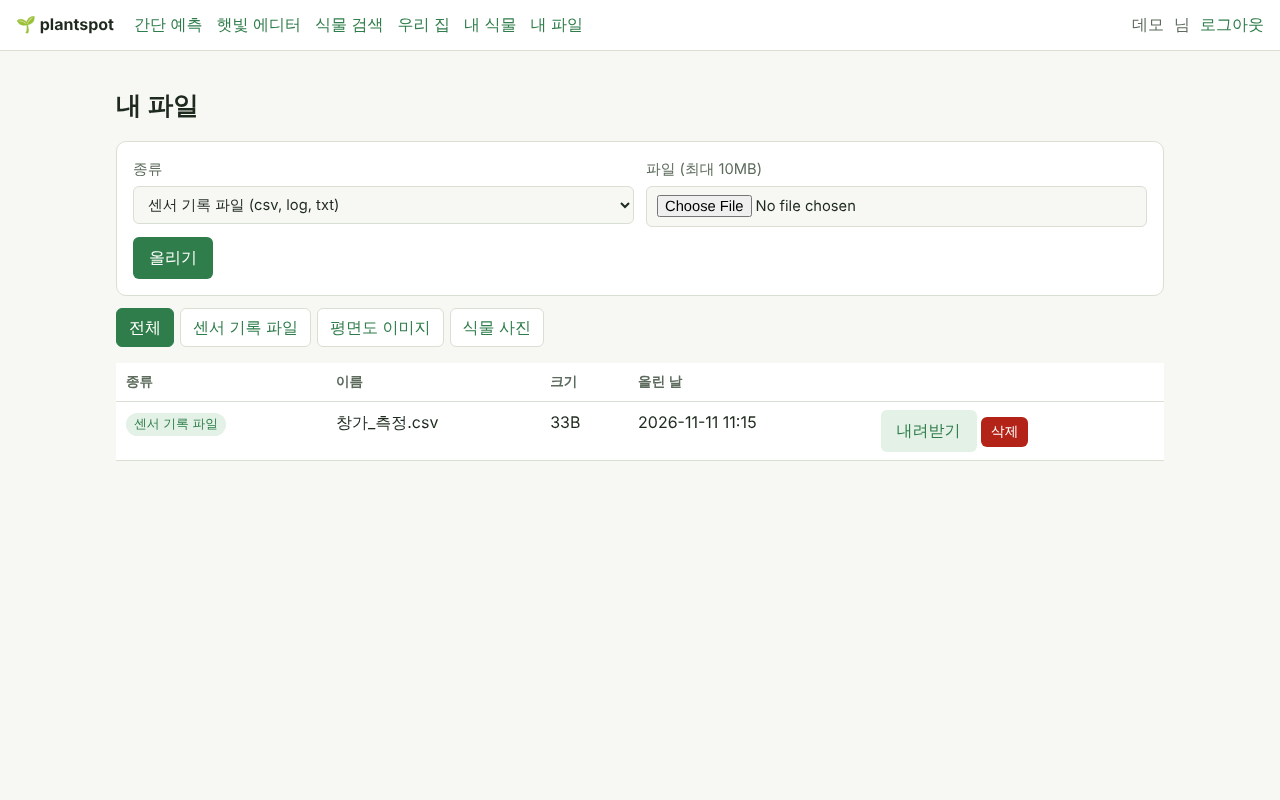
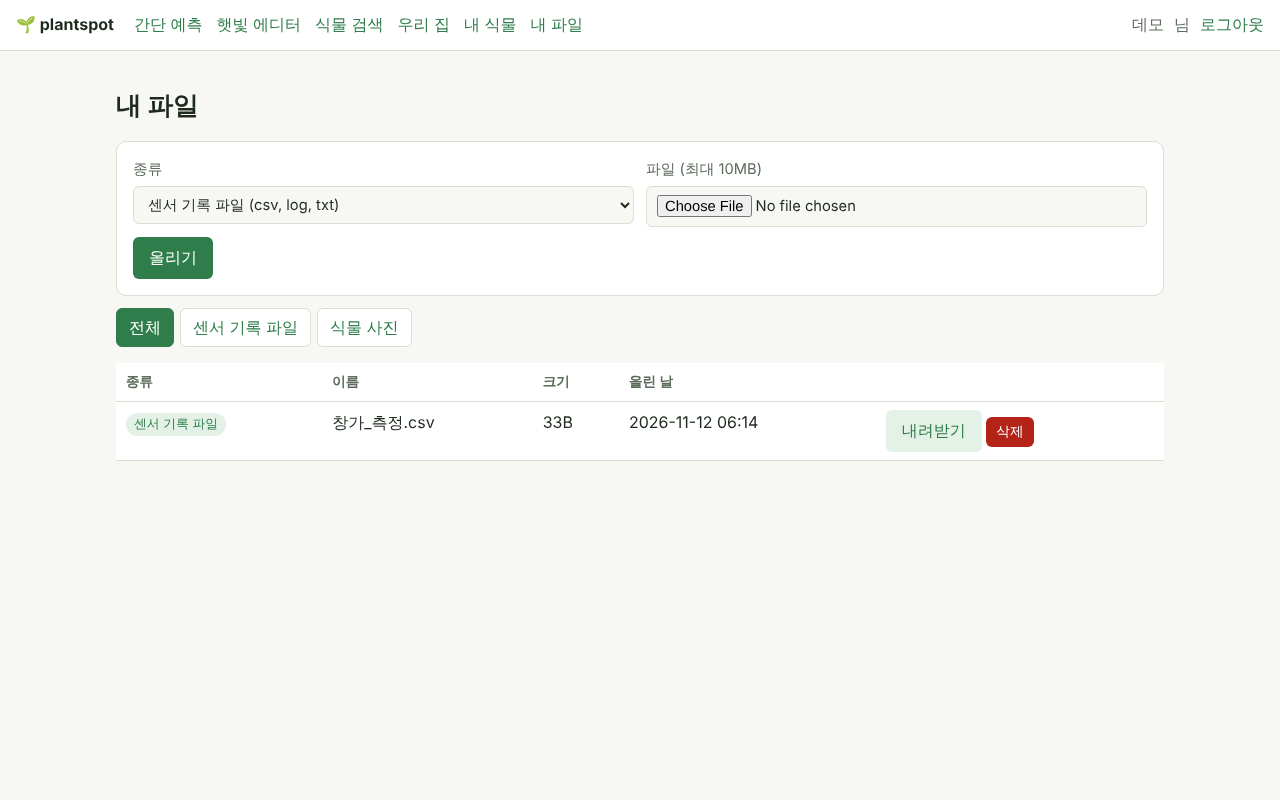
평면도 이미지 업로드 기능 제거 (평면도는 일반적으로 구하기 어려움)
- 방 화면 '평면도 이미지' 올리기·표시, 방과 연결(room.floor_plan_file_id), 파일 종류 선택에서 제거
- 예전에 올린 FLOOR_PLAN 파일은 목록·내려받기·삭제가 되도록 종류 이름만 '평면도 이미지(예전 자료)'로 남기고 새로 올리기는 400
- 파일 업로드 필수 기능은 센서 기록 파일·식물 사진으로 유지
- ② 평면도 햇빛 에디터와 방 모양 그림은 그대로
- README·코드 설명서·CLAUDE.md 문구 정리, README 캡처 다시 찍음 (방 화면에 창별 스카이라인·안쪽 창 설명 추가)

Claude-Session: https://claude.ai/code/session_0116ezH6zdCcCczdPGsCjxg5

diff --git a/src/main/resources/templates/my/room.html b/src/main/resources/templates/my/room.html
@@ -75,16 +75,6 @@
 			<button type="button" id="inner-clear" class="secondary">안쪽 창 지우기</button>
 		</form>
 
-		<h2>평면도 이미지</h2>
-		<div class="card">
-			<p class="muted">집 평면도 사진이나 그림을 올려 두면 평면도 에디터에서 밑그림으로 쓸 수 있습니다.</p>
-			<img id="floor-plan" alt="평면도 이미지" style="max-width:100%;display:none;margin-bottom:12px">
-			<form id="plan-form" class="inline">
-				<input type="file" name="file" accept="image/png,image/jpeg,image/webp,image/gif" required>
-				<button type="submit" class="small">올리기</button>
-			</form>
-		</div>
-
 		<h2>방 정보 수정</h2>
 		<form id="room-form" class="card form">
 			<div class="row">
@@ -271,8 +261,6 @@
 					: '<tr><td colspan="6" class="muted">창문이 없습니다.</td></tr>';
 				drawSkies(room, obs, paths);
 				draw(room);
-				const img = document.getElementById('floor-plan');
-				if (room.floorPlanFileId) { img.src = `/api/files/${room.floorPlanFileId}/content?inline=true`; img.style.display = 'block'; }
 			}
 			load().catch(show);
 
@@ -303,15 +291,6 @@
 					msg.hidden = true;
 					await load();
 				} catch (e) { show(e); }
-			});
-
-			document.getElementById('plan-form').addEventListener('submit', async (ev) => {
-				ev.preventDefault();
-				const fd = new FormData(ev.target);
-				fd.append('category', 'FLOOR_PLAN');
-				fd.append('roomId', id);
-				try { await api('/api/files', { method: 'POST', body: fd }); ev.target.reset(); await load(); }
-				catch (e) { show(e); }
 			});
 
 			rf.addEventListener('submit', async (ev) => {

diff --git a/src/test/java/com/springboot/controller/FileApiTest.java b/src/test/java/com/springboot/controller/FileApiTest.java
@@ -135,7 +135,7 @@ class FileApiTest {
 	}
 
 	@Test
-	void 평면도를_방에_올리면_방에_연결된다() throws Exception {
+	void 방에_연결해_올리기와_평면도_이미지_막기() throws Exception {
 		TestBuildings.insertHadan(jdbc);
 		String house = mvc.perform(post("/api/houses").contentType(MediaType.APPLICATION_JSON)
 				.content("{\"dong\":\"하단동\",\"jibun\":\"1160-6\",\"name\":\"집\",\"floor\":1}").with(csrf()).with(user(owner)))
@@ -145,15 +145,19 @@ class FileApiTest {
 				.with(csrf()).with(user(owner))).andReturn().getResponse().getHeader("Location");
 		String roomId = room.substring(room.lastIndexOf('/') + 1);
 
-		MockMultipartFile png = new MockMultipartFile("file", "plan.png", "image/png", new byte[] { 1, 2, 3 });
-		String fileId = mvc.perform(multipart("/api/files").file(png).param("category", "FLOOR_PLAN")
-				.param("roomId", roomId).with(csrf()).with(user(owner)))
-				.andExpect(status().isCreated()).andReturn().getResponse().getHeader("Location").replace("/api/files/", "");
-		mvc.perform(get(room).with(user(owner))).andExpect(jsonPath("$.floorPlanFileId").value(Long.parseLong(fileId)));
+		MockMultipartFile png = new MockMultipartFile("file", "plant.png", "image/png", new byte[] { 1, 2, 3 });
+		mvc.perform(multipart("/api/files").file(png).param("category", "PLANT_PHOTO").param("roomId", roomId)
+				.with(csrf()).with(user(owner))).andExpect(status().isCreated());
 
 		// 남의 방에는 못 올린다
-		mvc.perform(multipart("/api/files").file(png).param("category", "FLOOR_PLAN").param("roomId", roomId)
+		mvc.perform(multipart("/api/files").file(png).param("category", "PLANT_PHOTO").param("roomId", roomId)
 				.with(csrf()).with(user(other))).andExpect(status().isForbidden());
+
+		// 평면도 이미지는 기능을 뺐다 → 새로 올릴 수 없다
+		mvc.perform(multipart("/api/files").file(png).param("category", "FLOOR_PLAN").param("roomId", roomId)
+				.with(csrf()).with(user(owner)))
+				.andExpect(status().isBadRequest())
+				.andExpect(jsonPath("$.message", org.hamcrest.Matchers.containsString("더 이상 올릴 수 없습니다")));
 	}
 
 	@Test

diff --git a/src/main/java/com/springboot/domain/Room.java b/src/main/java/com/springboot/domain/Room.java
@@ -59,7 +59,6 @@ public class Room {
 	@Column(name = "winter_min_temp")
 	private Double winterMinTemp;
 
-	/** 평면도 이미지(업로드 파일) 번호, 없으면 null */
 	/**
 	 * 안쪽 창 선 (발코니 + 거실처럼 창이 두 겹인 방): 벽 inner_glass_wall 에서 방 안쪽으로 inner_glass_distance(cm)에
 	 * 유리 한 겹이 더 있다. 그 선보다 안쪽 칸은 하늘빛에 inner_glass_transmittance 를 한 번 더 곱한다. 없으면 null.
@@ -72,9 +71,6 @@ public class Room {
 
 	@Column(name = "inner_glass_transmittance")
 	private Double innerGlassTransmittance;
-
-	@Column(name = "floor_plan_file_id")
-	private Long floorPlanFileId;
 
 	@OneToMany(mappedBy = "room", cascade = CascadeType.ALL, orphanRemoval = true)
 	@OrderBy("id")
@@ -134,10 +130,6 @@ public class Room {
 		return winterMinTemp;
 	}
 
-	public void attachFloorPlan(Long fileId) {
-		this.floorPlanFileId = fileId;
-	}
-
 	public List<Point> points() {
 		return Shape.decode(shape);
 	}
@@ -164,10 +156,6 @@ public class Room {
 
 	public CurtainType getCurtain() {
 		return curtain;
-	}
-
-	public Long getFloorPlanFileId() {
-		return floorPlanFileId;
 	}
 
 	public List<RoomWindow> getWindows() {

diff --git a/src/main/java/com/springboot/dto/HouseResponses.java b/src/main/java/com/springboot/dto/HouseResponses.java
@@ -47,14 +47,14 @@ public final class HouseResponses {
 	}
 
 	public record RoomResponse(Long id, Long houseId, String name, List<Point> shape, double orientationDeg,
-			double ceilingHeight, CurtainType curtain, String curtainLabel, double areaM2, Long floorPlanFileId,
+			double ceilingHeight, CurtainType curtain, String curtainLabel, double areaM2,
 			Double winterMinTemp, List<WindowResponse> windows, InnerGlassView innerGlass) {
 
 		public static RoomResponse of(Room r) {
 			List<Point> points = r.points();
 			return new RoomResponse(r.getId(), r.getHouse().getId(), r.getName(), points, r.getOrientationDeg(),
 					r.getCeilingHeight(), r.getCurtain(), r.getCurtain().getLabel(),
-					Math.round(Math.abs(Shape.signedArea(points)) / 10_000.0 * 100) / 100.0, r.getFloorPlanFileId(),
+					Math.round(Math.abs(Shape.signedArea(points)) / 10_000.0 * 100) / 100.0,
 					r.getWinterMinTemp(), r.getWindows().stream().map(WindowResponse::of).toList(),
 					r.hasInnerGlass() ? new InnerGlassView(r.getInnerGlassWall(), r.getInnerGlassDistance(),
 							r.getInnerGlassTransmittance()) : null);

diff --git a/src/main/java/com/springboot/service/FileService.java b/src/main/java/com/springboot/service/FileService.java
@@ -48,6 +48,9 @@ public class FileService {
 		if (file == null || file.isEmpty()) {
 			throw new IllegalArgumentException("빈 파일입니다.");
 		}
+		if (!category.isUploadable()) {
+			throw new IllegalArgumentException(category.getLabel() + "는 더 이상 올릴 수 없습니다.");
+		}
 		String originalName = cleanName(file.getOriginalFilename());
 		String ext = extension(originalName);
 		if (!category.getExtensions().contains(ext)) {
@@ -66,9 +69,6 @@ public class FileService {
 		}
 		UploadFile saved = repository.save(new UploadFile(memberService.get(me.getId()), category, originalName,
 				storedName, contentType(ext, file.getContentType()), file.getSize(), roomId));
-		if (category == FileCategory.FLOOR_PLAN && roomId != null) {
-			houseService.attachFloorPlan(me, roomId, saved.getId());
-		}
 		log.info("파일 업로드: {} {} {}바이트 (회원 {})", category, originalName, file.getSize(), me.getUsername());
 		return FileResponse.of(saved);
 	}

diff --git a/src/main/java/com/springboot/domain/FileCategory.java b/src/main/java/com/springboot/domain/FileCategory.java
@@ -5,7 +5,8 @@ import java.util.Set;
 /** 업로드 파일 종류와 허용 확장자. [필수: 파일 업로드] */
 public enum FileCategory {
 	SENSOR_LOG("센서 기록 파일", Set.of("csv", "txt", "log")),
-	FLOOR_PLAN("평면도 이미지", Set.of("png", "jpg", "jpeg", "webp", "gif")),
+	/** 예전 평면도 이미지 (기능을 뺐음). 이미 올린 파일을 읽을 수 있게 이름만 남기고 새로 올리지는 못한다. */
+	FLOOR_PLAN("평면도 이미지(예전 자료)", Set.of("png", "jpg", "jpeg", "webp", "gif")),
 	PLANT_PHOTO("식물 사진", Set.of("png", "jpg", "jpeg", "webp", "gif", "heic"));
 
 	private final String label;
@@ -22,6 +23,11 @@ public enum FileCategory {
 
 	public Set<String> getExtensions() {
 		return extensions;
+	}
+
+	/** 새로 올릴 수 있는 종류인가 */
+	public boolean isUploadable() {
+		return this != FLOOR_PLAN;
 	}
 
 	public boolean isImage() {

diff --git a/src/main/java/com/springboot/controller/FileApiController.java b/src/main/java/com/springboot/controller/FileApiController.java
@@ -37,7 +37,7 @@ public class FileApiController {
 		this.service = service;
 	}
 
-	/** multipart/form-data: file, category(SENSOR_LOG / FLOOR_PLAN / PLANT_PHOTO), roomId(선택) */
+	/** multipart/form-data: file, category(SENSOR_LOG / PLANT_PHOTO), roomId(선택) */
 	@PostMapping(consumes = MediaType.MULTIPART_FORM_DATA_VALUE)
 	public ResponseEntity<FileResponse> upload(@AuthenticationPrincipal LoginMember me,
 			@RequestPart("file") MultipartFile file, @RequestParam("category") FileCategory category,

diff --git a/src/main/java/com/springboot/controller/Codes.java b/src/main/java/com/springboot/controller/Codes.java
@@ -29,7 +29,6 @@ public final class Codes {
 	/** domain.FileCategory */
 	public static final List<FileCategory> FILE_CATEGORIES = List.of(
 			new FileCategory("SENSOR_LOG", "센서 기록 파일", "csv, log, txt"),
-			new FileCategory("FLOOR_PLAN", "평면도 이미지", "gif, jpeg, jpg, png, webp"),
 			new FileCategory("PLANT_PHOTO", "식물 사진", "gif, heic, jpeg, jpg, png, webp"));
 
 	/** 농사로 광요구도 코드 */

diff --git a/src/main/java/com/springboot/service/HouseService.java b/src/main/java/com/springboot/service/HouseService.java
@@ -226,11 +226,6 @@ public class HouseService {
 		return max;
 	}
 
-	@Transactional
-	public void attachFloorPlan(LoginMember me, Long roomId, Long fileId) {
-		loadRoom(me, roomId).attachFloorPlan(fileId);
-	}
-
 	// ----- 창문 -----
 
 	@Transactional

diff --git a/docs/CODE_GUIDE.md b/docs/CODE_GUIDE.md
@@ -70,7 +70,7 @@ domain      (JPA 엔티티) ──► SQLite 파일 data/plantspot.db
 | member | Member | 회원 (아이디, BCrypt 비밀번호, 닉네임, 권한 USER/ADMIN) |
 | building | Building | 건물 (동·지번, 동 이름, 용도, 층수, 원래 높이·최종 높이·높이 출처, 넓이, 중심점, 외곽선 WKT, 위경도) |
 | house | House | 집 (회원, 건물, 층, 층 높이, 동 안 위치 unit_position, 중심점·위경도) |
-| room | Room | 방 (모양 "x,y;x,y;…", 평면도 위쪽 방향, 천장, 커튼, 겨울 최저 실내 온도, 평면도 이미지) |
+| room | Room | 방 (모양 "x,y;x,y;…", 평면도 위쪽 방향, 천장, 커튼, 겨울 최저 실내 온도, 안쪽 창 선) |
 | room_window | RoomWindow | 창문 (벽 번호, 벽 시작점에서 거리, 폭·높이·창턱, 방향은 계산) |
 | obstruction_angle | ObstructionAngle | 집의 5° 방향별 가림 각도 (출처 BUILDING·TERRAIN·SENSOR, 원인 건물, 거리) |
 | sunlight_summary / sunlight_cell | SunlightSummary / SunlightCell | 방·계절·연도별 요약(낮 길이, 창별 해 드는 시간)과 칸별 결과(직사광 분, lux, 밝기 단계) |

diff --git a/CLAUDE.md b/CLAUDE.md
@@ -245,7 +245,7 @@ GET  /api/rooms/{id}/report            (PDF 다운로드)
 - 회원: 집·방·창문 등록, 평면도 에디터, 기기·측정, 식물 등록·추천·알림, 리포트 다운로드
 - 관리자: 식물 변환표, 건물 데이터 갱신, 기기·회원 관리
 
-**파일**: 업로드 = 센서 기록 파일, 평면도 이미지, 식물 사진 / 다운로드 = 계절별 배치도 이미지, 리포트 PDF, 측정 원본 CSV
+**파일**: 업로드 = 센서 기록 파일, 식물 사진 (평면도 이미지는 일반적으로 구하기 어려워 뺌, 예전에 올린 파일만 FLOOR_PLAN 으로 남음) / 다운로드 = 계절별 배치도 이미지, 리포트 PDF, 측정 원본 CSV
 
 **② 추가 프로그램 = 평면도 햇빛 에디터** (브라우저 캔버스): 방 그리기, 창문 배치, 날짜·시각 슬라이더로 햇빛 이동 시뮬레이션(해 위치 계산을 브라우저에서 수행, 서버와 같은 공식), 식물 끌어다 놓기로 적합도 색 표시, 보정 전·후 햇빛 영역 겹쳐 보기
 
